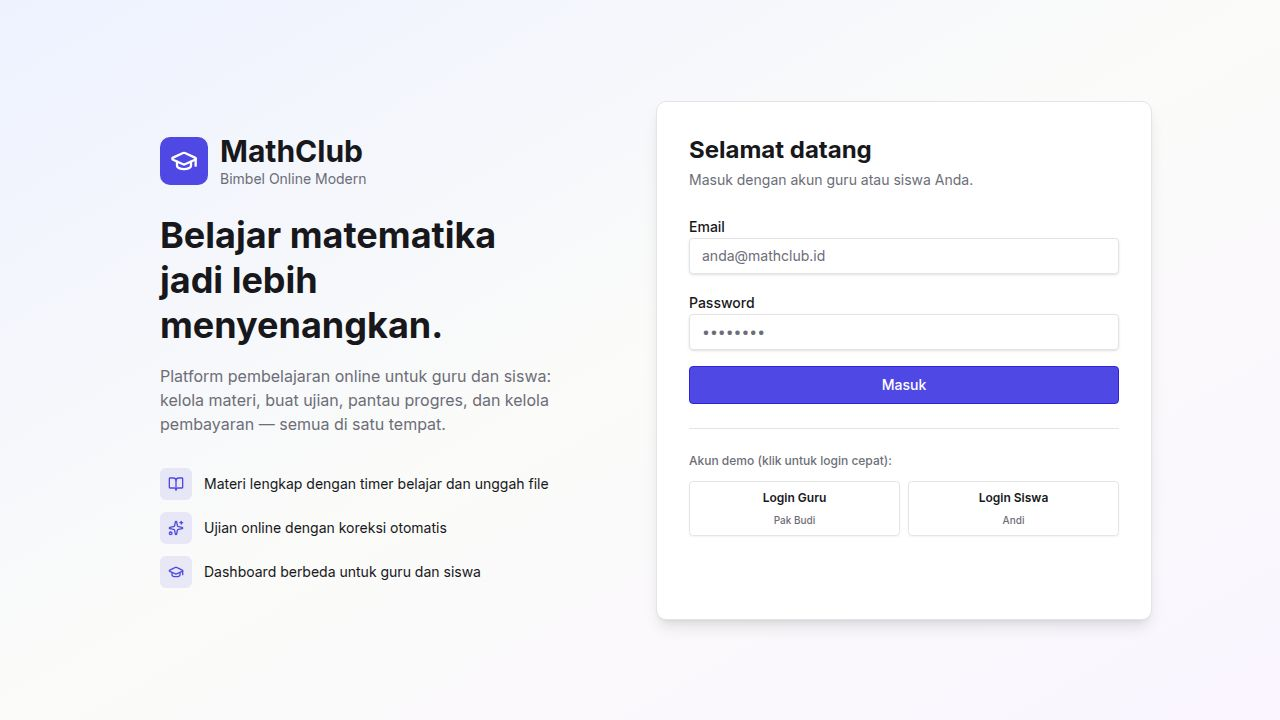
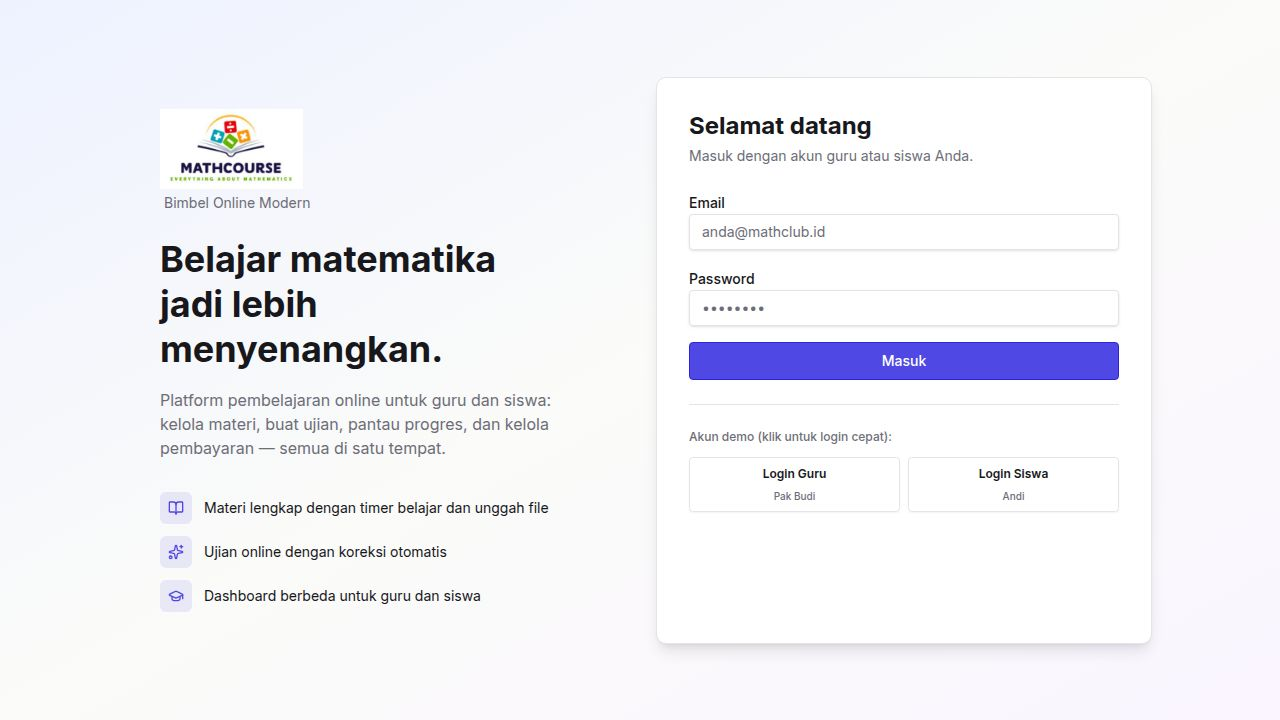
Add a class feature for students to see classmates and communicate
Implement a new student class page with classmate listing and group chat functionality, including type definitions and storage updates for class messages.

Replit-Commit-Author: Agent
Replit-Commit-Session-Id: db0485f2-dd5c-4a9a-9130-715d87bf8ea3
Replit-Commit-Checkpoint-Type: full_checkpoint
Replit-Commit-Event-Id: e5da21c5-6686-4808-9aeb-b51ad844673c
Replit-Commit-Screenshot-Url: https://storage.googleapis.com/screenshot-production-us-central1/19fc9bd2-698e-4580-b1c2-505b042b383e/db0485f2-dd5c-4a9a-9130-715d87bf8ea3/PoKIzJ7
Replit-Helium-Checkpoint-Created: true

diff --git a/artifacts/relationships/src/pages/student/class.tsx b/artifacts/relationships/src/pages/student/class.tsx
@@ -1,0 +1,301 @@
+import { useEffect, useMemo, useRef, useState } from "react";
+import { Link } from "wouter";
+import {
+  Users,
+  Send,
+  Phone,
+  Mail,
+  MessageCircle,
+  GraduationCap,
+  AlertCircle,
+} from "lucide-react";
+import { Card, CardContent, CardHeader, CardTitle } from "@/components/ui/card";
+import { Button } from "@/components/ui/button";
+import { Input } from "@/components/ui/input";
+import { Badge } from "@/components/ui/badge";
+import { Tabs, TabsContent, TabsList, TabsTrigger } from "@/components/ui/tabs";
+import { Alert, AlertDescription } from "@/components/ui/alert";
+import { useAuth, useStore } from "@/lib/auth";
+import { read, write, uid } from "@/lib/storage";
+import type { User, ClassMessage } from "@/lib/types";
+import { formatRelative } from "@/lib/format";
+import { cn } from "@/lib/utils";
+
+export default function StudentClass() {
+  const { user } = useAuth();
+  const users = useStore<User[]>("users", []);
+  const messages = useStore<ClassMessage[]>("classMessages", []);
+  const [text, setText] = useState("");
+  const scrollRef = useRef<HTMLDivElement>(null);
+
+  const kelas = user?.kelas;
+
+  const classmates = useMemo(
+    () =>
+      users
+        .filter((u) => u.role === "student" && u.kelas === kelas)
+        .sort((a, b) => a.name.localeCompare(b.name)),
+    [users, kelas],
+  );
+
+  const myMessages = useMemo(
+    () =>
+      messages
+        .filter((m) => m.kelas === kelas)
+        .sort((a, b) => a.createdAt - b.createdAt),
+    [messages, kelas],
+  );
+
+  useEffect(() => {
+    if (scrollRef.current) {
+      scrollRef.current.scrollTop = scrollRef.current.scrollHeight;
+    }
+  }, [myMessages.length]);
+
+  function send() {
+    const t = text.trim();
+    if (!t || !kelas || !user) return;
+    const all = read("classMessages", []);
+    const newMsg: ClassMessage = {
+      id: uid("cm_"),
+      kelas,
+      userId: user.id,
+      text: t,
+      createdAt: Date.now(),
+    };
+    write("classMessages", [...all, newMsg]);
+    setText("");
+  }
+
+  if (!user) return null;
+
+  if (!kelas) {
+    return (
+      <div className="space-y-6 max-w-2xl mx-auto">
+        <div className="flex items-center gap-3">
+          <div className="h-10 w-10 rounded-lg bg-primary/10 text-primary flex items-center justify-center">
+            <Users className="h-5 w-5" />
+          </div>
+          <div>
+            <h1 className="text-2xl font-bold">Kelas Saya</h1>
+            <p className="text-sm text-muted-foreground">
+              Lihat teman sekelas dan grup chat kelas.
+            </p>
+          </div>
+        </div>
+        <Alert>
+          <AlertCircle className="h-4 w-4" />
+          <AlertDescription>
+            Kamu belum mengatur kelas. Buka{" "}
+            <Link href="/student/profile" className="underline font-medium">
+              Edit Profil
+            </Link>{" "}
+            untuk memilih kelas kamu, lalu kembali ke halaman ini untuk melihat teman
+            sekelas.
+          </AlertDescription>
+        </Alert>
+      </div>
+    );
+  }
+
+  return (
+    <div className="space-y-6">
+      <div className="flex items-center gap-3 flex-wrap">
+        <div className="h-10 w-10 rounded-lg bg-primary/10 text-primary flex items-center justify-center">
+          <GraduationCap className="h-5 w-5" />
+        </div>
+        <div className="flex-1 min-w-0">
+          <h1 className="text-2xl font-bold">Kelas {kelas}</h1>
+          <p className="text-sm text-muted-foreground">
+            {classmates.length} teman sekelas
+          </p>
+        </div>
+      </div>
+
+      <Tabs defaultValue="chat" className="w-full">
+        <TabsList className="grid w-full max-w-md grid-cols-2">
+          <TabsTrigger value="chat" data-testid="tab-chat">
+            <MessageCircle className="h-4 w-4 mr-2" />
+            Chat Kelas
+          </TabsTrigger>
+          <TabsTrigger value="members" data-testid="tab-members">
+            <Users className="h-4 w-4 mr-2" />
+            Teman Sekelas
+          </TabsTrigger>
+        </TabsList>
+
+        <TabsContent value="chat" className="mt-4">
+          <Card className="flex flex-col h-[60vh] min-h-[400px]">
+            <CardHeader className="border-b py-3">
+              <CardTitle className="text-base flex items-center gap-2">
+                <MessageCircle className="h-4 w-4" />
+                Grup Chat Kelas {kelas}
+                <Badge variant="secondary" className="ml-auto">
+                  {myMessages.length} pesan
+                </Badge>
+              </CardTitle>
+            </CardHeader>
+            <CardContent className="flex-1 overflow-hidden p-0">
+              <div
+                ref={scrollRef}
+                className="h-full overflow-y-auto p-4 space-y-3"
+                data-testid="chat-messages"
+              >
+                {myMessages.length === 0 && (
+                  <div className="h-full flex flex-col items-center justify-center text-center text-sm text-muted-foreground">
+                    <MessageCircle className="h-10 w-10 mb-2 opacity-30" />
+                    <p>Belum ada pesan di kelas ini.</p>
+                    <p className="text-xs mt-1">Sapa teman sekelas kamu!</p>
+                  </div>
+                )}
+                {myMessages.map((m) => {
+                  const sender = users.find((u) => u.id === m.userId);
+                  const isMe = m.userId === user.id;
+                  const isTeacher = sender?.role === "teacher";
+                  return (
+                    <div
+                      key={m.id}
+                      className={cn(
+                        "flex gap-2",
+                        isMe ? "flex-row-reverse" : "flex-row",
+                      )}
+                      data-testid={`message-${m.id}`}
+                    >
+                      <div
+                        className="h-8 w-8 rounded-full flex items-center justify-center text-white font-semibold text-xs shrink-0"
+                        style={{ background: sender?.avatarColor ?? "#6366f1" }}
+                        title={sender?.name}
+                      >
+                        {sender?.name.charAt(0) ?? "?"}
+                      </div>
+                      <div
+                        className={cn(
+                          "max-w-[75%] rounded-2xl px-3 py-2 text-sm",
+                          isMe
+                            ? "bg-primary text-primary-foreground rounded-tr-sm"
+                            : "bg-muted rounded-tl-sm",
+                        )}
+                      >
+                        {!isMe && (
+                          <div className="flex items-center gap-1 text-[11px] font-semibold mb-0.5 opacity-80">
+                            {sender?.name ?? "Pengguna"}
+                            {isTeacher && (
+                              <Badge
+                                variant="default"
+                                className="h-4 px-1 text-[9px]"
+                              >
+                                Guru
+                              </Badge>
+                            )}
+                          </div>
+                        )}
+                        <div className="whitespace-pre-wrap break-words">{m.text}</div>
+                        <div
+                          className={cn(
+                            "text-[10px] mt-0.5",
+                            isMe
+                              ? "text-primary-foreground/70"
+                              : "text-muted-foreground",
+                          )}
+                        >
+                          {formatRelative(m.createdAt)}
+                        </div>
+                      </div>
+                    </div>
+                  );
+                })}
+              </div>
+            </CardContent>
+            <div className="border-t p-3 flex gap-2">
+              <Input
+                placeholder="Tulis pesan untuk teman sekelas..."
+                value={text}
+                onChange={(e) => setText(e.target.value)}
+                onKeyDown={(e) => {
+                  if (e.key === "Enter" && !e.shiftKey) {
+                    e.preventDefault();
+                    send();
+                  }
+                }}
+                data-testid="input-message"
+              />
+              <Button
+                onClick={send}
+                disabled={!text.trim()}
+                data-testid="button-send-message"
+              >
+                <Send className="h-4 w-4" />
+              </Button>
+            </div>
+          </Card>
+        </TabsContent>
+
+        <TabsContent value="members" className="mt-4">
+          <div className="grid gap-3 md:grid-cols-2 lg:grid-cols-3">
+            {classmates.map((c) => {
+              const isMe = c.id === user.id;
+              return (
+                <Card
+                  key={c.id}
+                  className={cn(isMe && "border-primary border-2")}
+                  data-testid={`classmate-${c.id}`}
+                >
+                  <CardContent className="p-4">
+                    <div className="flex items-center gap-3 mb-3">
+                      <div
+                        className="h-12 w-12 rounded-full flex items-center justify-center text-white font-semibold"
+                        style={{ background: c.avatarColor ?? "#6366f1" }}
+                      >
+                        {c.name.charAt(0)}
+                      </div>
+                      <div className="flex-1 min-w-0">
+                        <div className="font-semibold truncate flex items-center gap-1.5">
+                          {c.name}
+                          {isMe && (
+                            <Badge variant="outline" className="text-[10px]">
+                              Kamu
+                            </Badge>
+                          )}
+                        </div>
+                        <div className="text-xs text-muted-foreground truncate">
+                          Kelas {c.kelas}
+                        </div>
+                      </div>
+                    </div>
+                    <div className="space-y-1.5 text-xs">
+                      <div className="flex items-center gap-2 text-muted-foreground">
+                        <Mail className="h-3 w-3 shrink-0" />
+                        <a
+                          href={`mailto:${c.email}`}
+                          className="truncate hover:text-foreground"
+                        >
+                          {c.email}
+                        </a>
+                      </div>
+                      {c.phone && (
+                        <div className="flex items-center gap-2 text-muted-foreground">
+                          <Phone className="h-3 w-3 shrink-0" />
+                          <a
+                            href={`tel:${c.phone}`}
+                            className="truncate hover:text-foreground"
+                          >
+                            {c.phone}
+                          </a>
+                        </div>
+                      )}
+                    </div>
+                  </CardContent>
+                </Card>
+              );
+            })}
+            {classmates.length === 0 && (
+              <div className="col-span-full text-center text-sm text-muted-foreground py-12 border rounded-lg">
+                Belum ada teman sekelas yang terdaftar di kelas {kelas}.
+              </div>
+            )}
+          </div>
+        </TabsContent>
+      </Tabs>
+    </div>
+  );
+}

diff --git a/artifacts/relationships/src/lib/types.ts b/artifacts/relationships/src/lib/types.ts
@@ -90,6 +90,14 @@ export interface Payment {
   notes?: string;
 }
 
+export interface ClassMessage {
+  id: string;
+  kelas: string;
+  userId: string;
+  text: string;
+  createdAt: number;
+}
+
 export type NotificationType =
   | "new_material"
   | "new_exam"

diff --git a/artifacts/relationships/src/App.tsx b/artifacts/relationships/src/App.tsx
@@ -25,6 +25,7 @@ import StudentExamResult from "@/pages/student/exam-result";
 import StudentProgress from "@/pages/student/progress";
 import StudentPayments from "@/pages/student/payments";
 import StudentProfile from "@/pages/student/profile";
+import StudentClass from "@/pages/student/class";
 
 const queryClient = new QueryClient();
 
@@ -66,6 +67,7 @@ function Router() {
       <Route path="/student/progress" component={() => <Protected role="student"><StudentProgress /></Protected>} />
       <Route path="/student/payments" component={() => <Protected role="student"><StudentPayments /></Protected>} />
       <Route path="/student/profile" component={() => <Protected role="student"><StudentProfile /></Protected>} />
+      <Route path="/student/class" component={() => <Protected role="student"><StudentClass /></Protected>} />
 
       <Route path="/" component={RootRedirect} />
       <Route component={NotFound} />

diff --git a/artifacts/relationships/src/lib/storage.ts b/artifacts/relationships/src/lib/storage.ts
@@ -6,6 +6,7 @@ import type {
   ExamSubmission,
   Payment,
   AppNotification,
+  ClassMessage,
 } from "./types";
 
 const PREFIX = "mathclub:v1:";
@@ -20,6 +21,7 @@ type StoreMap = {
   notifications: AppNotification[];
   session: { userId: string } | null;
   classes: string[];
+  classMessages: ClassMessage[];
 };
 
 type Listener = () => void;

diff --git a/artifacts/relationships/src/components/layout.tsx b/artifacts/relationships/src/components/layout.tsx
@@ -48,6 +48,7 @@ const teacherNav: NavItem[] = [
 
 const studentNav: NavItem[] = [
   { path: "/student", label: "Dashboard", icon: LayoutDashboard },
+  { path: "/student/class", label: "Kelas", icon: Users },
   { path: "/student/materials", label: "Materi", icon: BookOpen },
   { path: "/student/exams", label: "Ujian", icon: ClipboardList },
   { path: "/student/progress", label: "Progres", icon: TrendingUp },